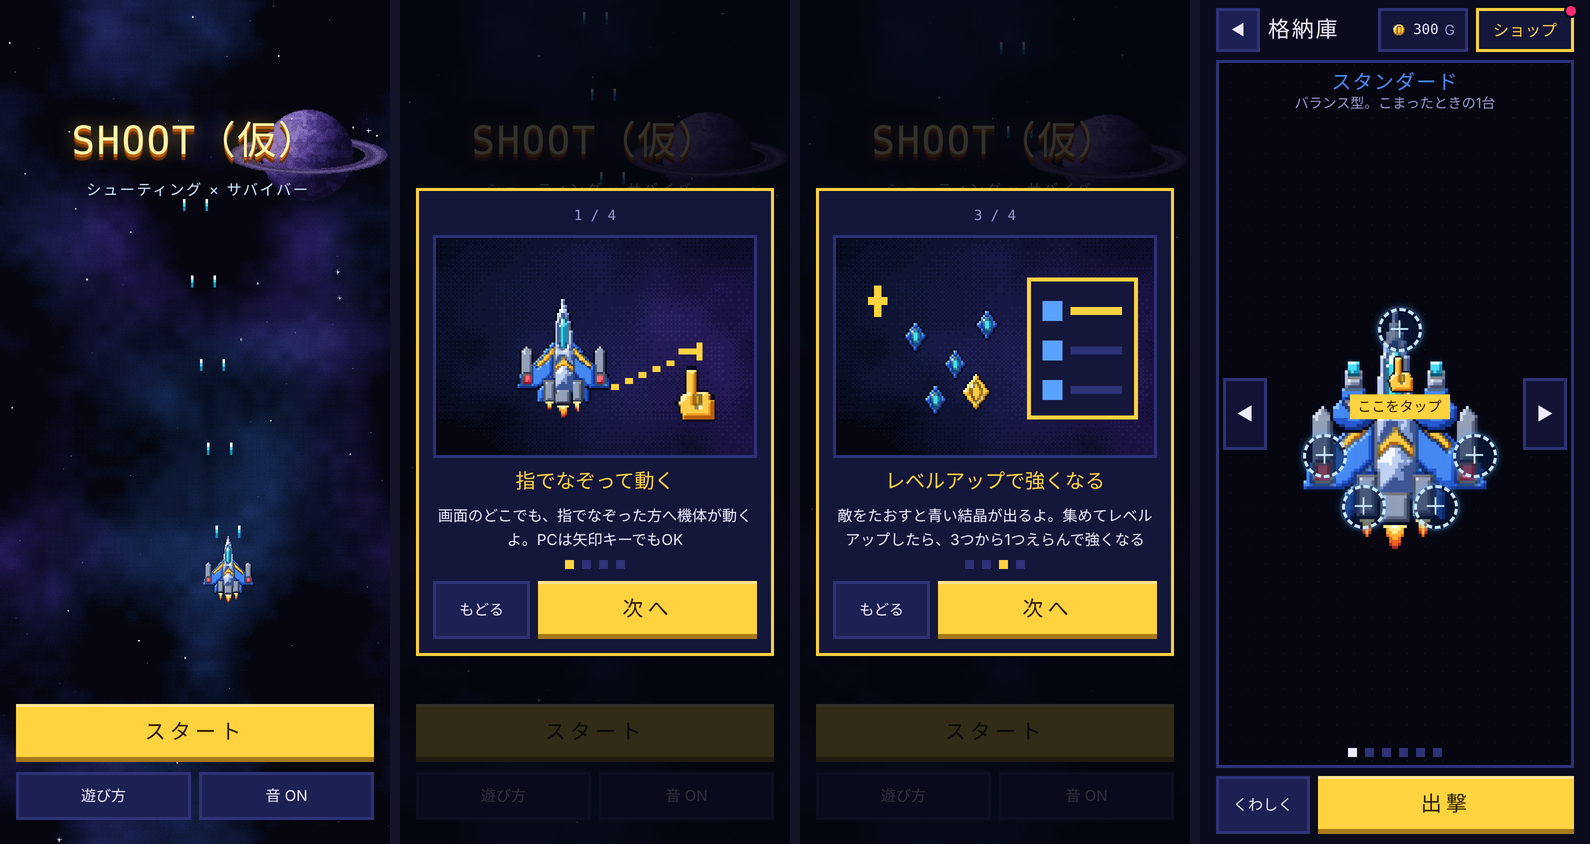
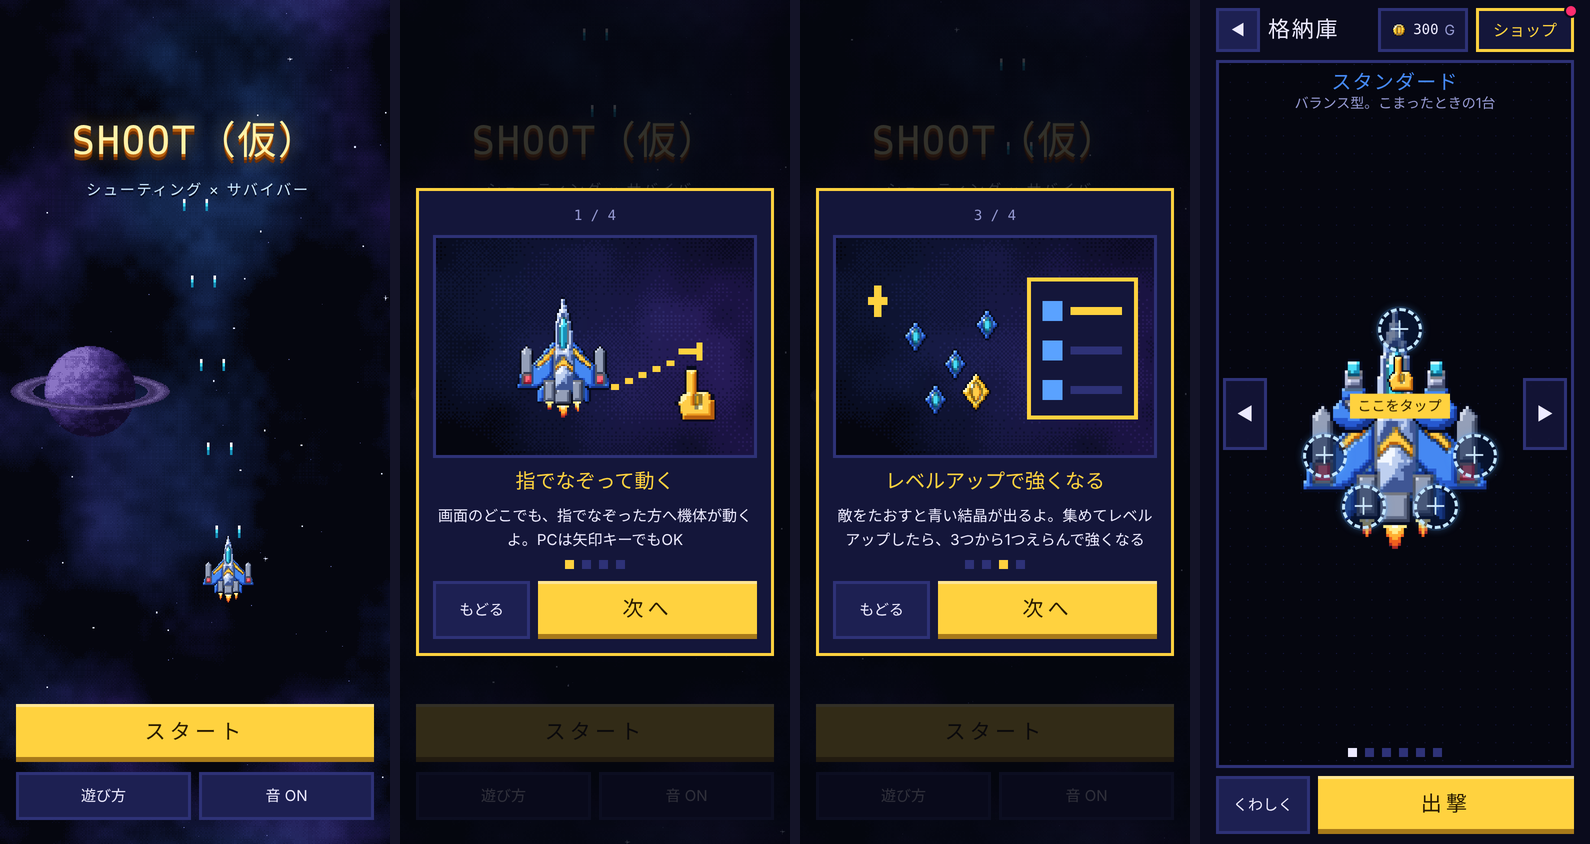
点検の指摘：タイトルの背景がPCでつぶれない・iPhoneでクリックでも音を始める・撤退では音を鳴らさない・惑星をロゴからずらす

diff --git a/index.html b/index.html
@@ -26,7 +26,7 @@ button:disabled{cursor:not-allowed}
 
 /* ---------- title・遊び方 ---------- */
 #title{position:fixed;inset:0;z-index:30;background:var(--deep);overflow:hidden}
-#titleCv{position:absolute;inset:0;width:100%;height:100%;image-rendering:pixelated;image-rendering:crisp-edges}
+#titleCv{position:absolute;inset:0;width:100%;height:100%;object-fit:cover;image-rendering:pixelated;image-rendering:crisp-edges}
 .tbox{position:relative;height:100%;max-width:460px;margin:0 auto;display:flex;flex-direction:column;justify-content:space-between;
   padding:calc(14vh + env(safe-area-inset-top,0px)) max(16px,env(safe-area-inset-right,0px)) calc(24px + env(safe-area-inset-bottom,0px)) max(16px,env(safe-area-inset-left,0px))}
 .logo{margin:0;text-align:center;font-family:var(--f-num);font-weight:400;font-size:clamp(30px,10vw,46px);line-height:1.25;letter-spacing:.04em;color:#fff2a8;
@@ -847,7 +847,7 @@ const SFX=(()=>{
     return true;
   }
   /* 最初のタップで音を始める（iPhone の決まり） */
-  function unlock(){if(!init())return;if(ac.state==='suspended')ac.resume().catch(()=>{});}
+  function unlock(){if(!init())return;if(ac.state!=='running'&&ac.state!=='closed')ac.resume().catch(()=>{});}
   const on=()=>save.snd!==false&&ac&&ac.state!=='closed';
   /* 1つの音：type・高さ f0→f1・長さ・大きさ・はじまりの遅れ */
   function tone(type,f0,f1,dur,vol,delay){
@@ -1739,7 +1739,7 @@ function endRun(clear,retreat){
   const rec={t:Math.floor(R.t),kills:R.kills,clear};let isBest=false;
   if(!save.best||rec.t>save.best.t||(rec.t===save.best.t&&rec.kills>save.best.kills)){save.best=rec;isBest=true;}
   persist();
-  SFX.play(clear?'clear':retreat?'btn':'over');setTimeout(()=>SFX.play('coin'),clear?900:700);
+  if(!retreat){SFX.play(clear?'clear':'over');if(clear)setTimeout(()=>SFX.play('coin'),900);}
   overlay.textContent='';
   overlay.append(el('h2',null,clear?'クリア！':retreat?'撤退':'撃墜…'),
     el('p','sub',clear?'5分 生きのびた！':retreat?'とちゅうで格納庫にもどったよ':'組みなおして、また出撃しよう'));
@@ -1793,7 +1793,7 @@ function titleBg(){
   const r=titleEl.getBoundingClientRect(),h=clamp(Math.round(GW*Math.max(1,r.height)/Math.max(1,r.width)),660,1200);
   tCv.width=GW;tCv.height=h;tg.imageSmoothingEnabled=false;
   const stars=[];for(let i=0;i<170;i++)stars.push({x:rand(0,GW),y:rand(0,h),l:i<95?0:i<145?1:2,tw:rand(0,TAU)});
-  TS={t:0,h,neb:rand(0,1024),stars,pl:{i:0,x:GW*0.58,y:h*0.12},shots:[],cd:0};
+  TS={t:0,h,neb:rand(0,1024),stars,pl:{i:0,x:GW*0.02,y:h*0.4},shots:[],cd:0};
 }
 function titleFrame(ts){
   if(titleEl.hidden){tRaf=0;return;}
@@ -1821,6 +1821,7 @@ $('sndBtn').addEventListener('click',()=>{save.snd=save.snd===false;persist();re
 $('startBtn').addEventListener('click',()=>{SFX.play('start');if(!save.howto)openHowto(true);else toHangarFromTitle();});
 $('howBtn').addEventListener('click',()=>openHowto(false));
 $('toTitle').addEventListener('click',showTitle);
+window.addEventListener('resize',()=>{if(!titleEl.hidden)titleBg();});
 
 /* 遊び方（絵つき4枚・1回目のスタートのときにも出す） */
 const HOWTO=[
@@ -1863,7 +1864,7 @@ $('howNext').addEventListener('click',()=>{
 });
 /* 最初のタップで音を始める・ボタンの音 */
 document.addEventListener('pointerdown',()=>SFX.unlock(),{capture:true});
-document.addEventListener('click',e=>{const b=e.target.closest&&e.target.closest('button');if(!b||b.disabled)return;
+document.addEventListener('click',e=>{SFX.unlock();const b=e.target.closest&&e.target.closest('button');if(!b||b.disabled)return;
   if(b.id==='startBtn'||b.id==='sndBtn'||b.classList.contains('buybig'))return;SFX.play('btn');},{capture:true});
 
 document.querySelectorAll('.gname').forEach(e=>{e.textContent=GAME_NAME;});
